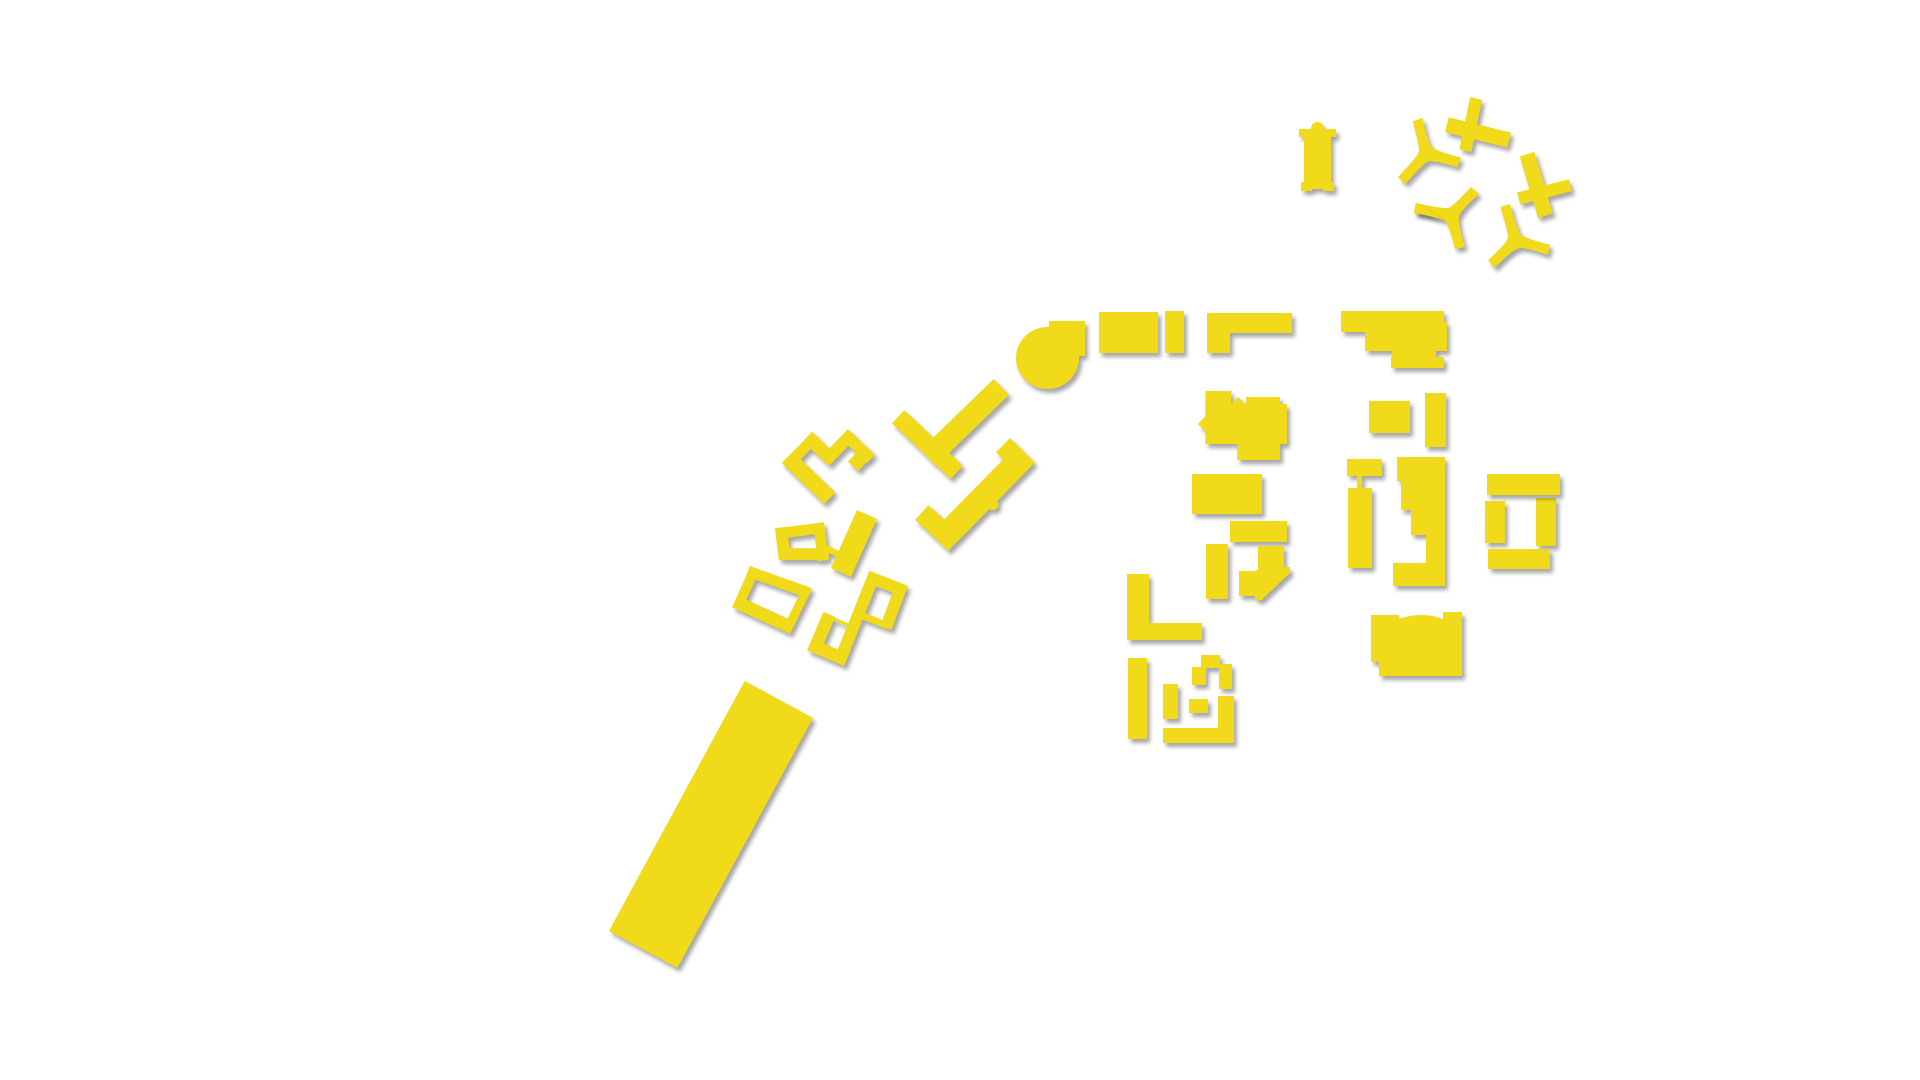
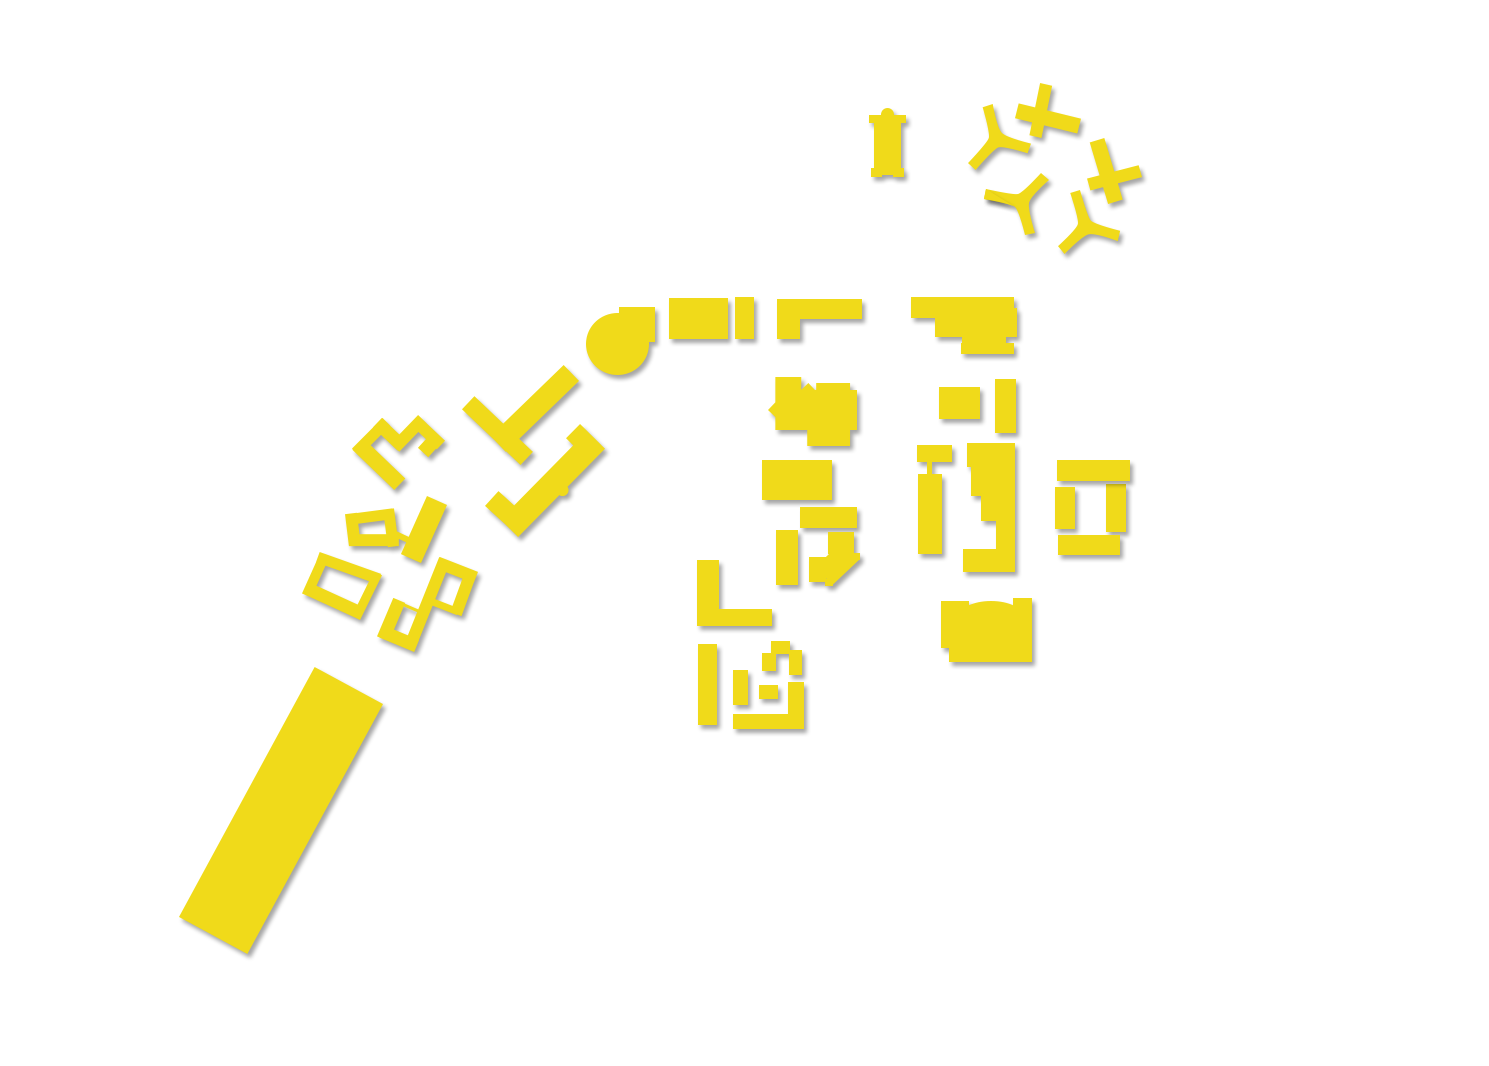
Added building locations

diff --git a/index.html b/index.html
@@ -72,9 +72,32 @@
 
 
         <div style="display: inline-block;">
-            <img style="width: 50%; height: 70%; position: absolute; left: 640px; top: 140px;" src="./assets/Draft1.png"/>
-            <!-- Putting class="ttip" to the following div makes the star vanish -->
-            <img style="width:50px; height:50px; position: absolute; top:460px; left: 860px;" src="./assets/star_marker_purple.png" data-toggle="tooltip" data-placement="left" title="Building Name" />
+            <img style="width: 50%; height: 70%; position: absolute; left: 700px; top: 140px;" src="./assets/Draft1.png"/>
+
+            <img style="width:50px; height:50px; position: absolute; top:460px; left: 835px;" src="./assets/star_marker_purple.png" data-toggle="tooltip" data-placement="left" title="University Hall" />
+            <img style="width:50px; height:50px; position: absolute; top:250px; left: 1000px;" src="./assets/star_marker_purple.png" data-toggle="tooltip" data-placement="left" title=" Hannon Library" />            
+            <img style="width:50px; height:50px; position: absolute; top:300px; left: 940px;" src="./assets/star_marker_purple.png"
+                data-toggle="tooltip" data-placement="left" title="McCarthy Hall" />
+            <img style="width:50px; height:50px; position: absolute; top:335px; left: 940px;" src="./assets/star_marker_purple.png"
+                data-toggle="tooltip" data-placement="left" title="Rains Hall" />
+            <img style="width:50px; height:50px; position: absolute; top:340px; left: 1255px;" src="./assets/star_marker_purple.png"
+                data-toggle="tooltip" data-placement="left" title="Doolan Hall" />
+            <img style="width:50px; height:50px; position: absolute; top:340px; left: 1225px;" src="./assets/star_marker_purple.png"
+                data-toggle="tooltip" data-placement="left" title="Periera Hall" />
+            <img style="width:50px; height:50px; position: absolute; top:355px; left: 1190px;" src="./assets/star_marker_purple.png"
+                data-toggle="tooltip" data-placement="left" title="Life Science Building" />
+            <img style="width:50px; height:50px; position: absolute; top:245px; left: 1190px;" src="./assets/star_marker_purple.png"
+                data-toggle="tooltip" data-placement="left" title="Malone Building" />
+            <img style="width:50px; height:50px; position: absolute; top:185px; left: 1220px;" src="./assets/star_marker_purple.png"
+                data-toggle="tooltip" data-placement="left" title="Founders Pavilion" />
+            <img style="width:50px; height:50px; position: absolute; top:240px; left: 1100px;" src="./assets/star_marker_purple.png"
+                data-toggle="tooltip" data-placement="left" title="St. Robert's Hall" />
+            <img style="width:50px; height:50px; position: absolute; top:240px; left: 1050px;" src="./assets/star_marker_purple.png"
+                data-toggle="tooltip" data-placement="left" title="Hilton" />
+            <img style="width:50px; height:50px; position: absolute; top:290px; left: 1100px;" src="./assets/star_marker_purple.png"
+                data-toggle="tooltip" data-placement="left" title="Von der Ahe" />
+            <img style="width:50px; height:50px; position: absolute; top:165px; left: 1132px;" src="./assets/star_marker_purple.png"
+                data-toggle="tooltip" data-placement="left" title="Sacred Heart Chapel" />
             <img id="whitebar" style="width:50px; height:50px; position: absolute; top:460px; left: 1060px; display: none" src="./assets/star_marker_purple.png" data-toggle="tooltip" data-placement="left" title="Building Name" />
         </div>
 
